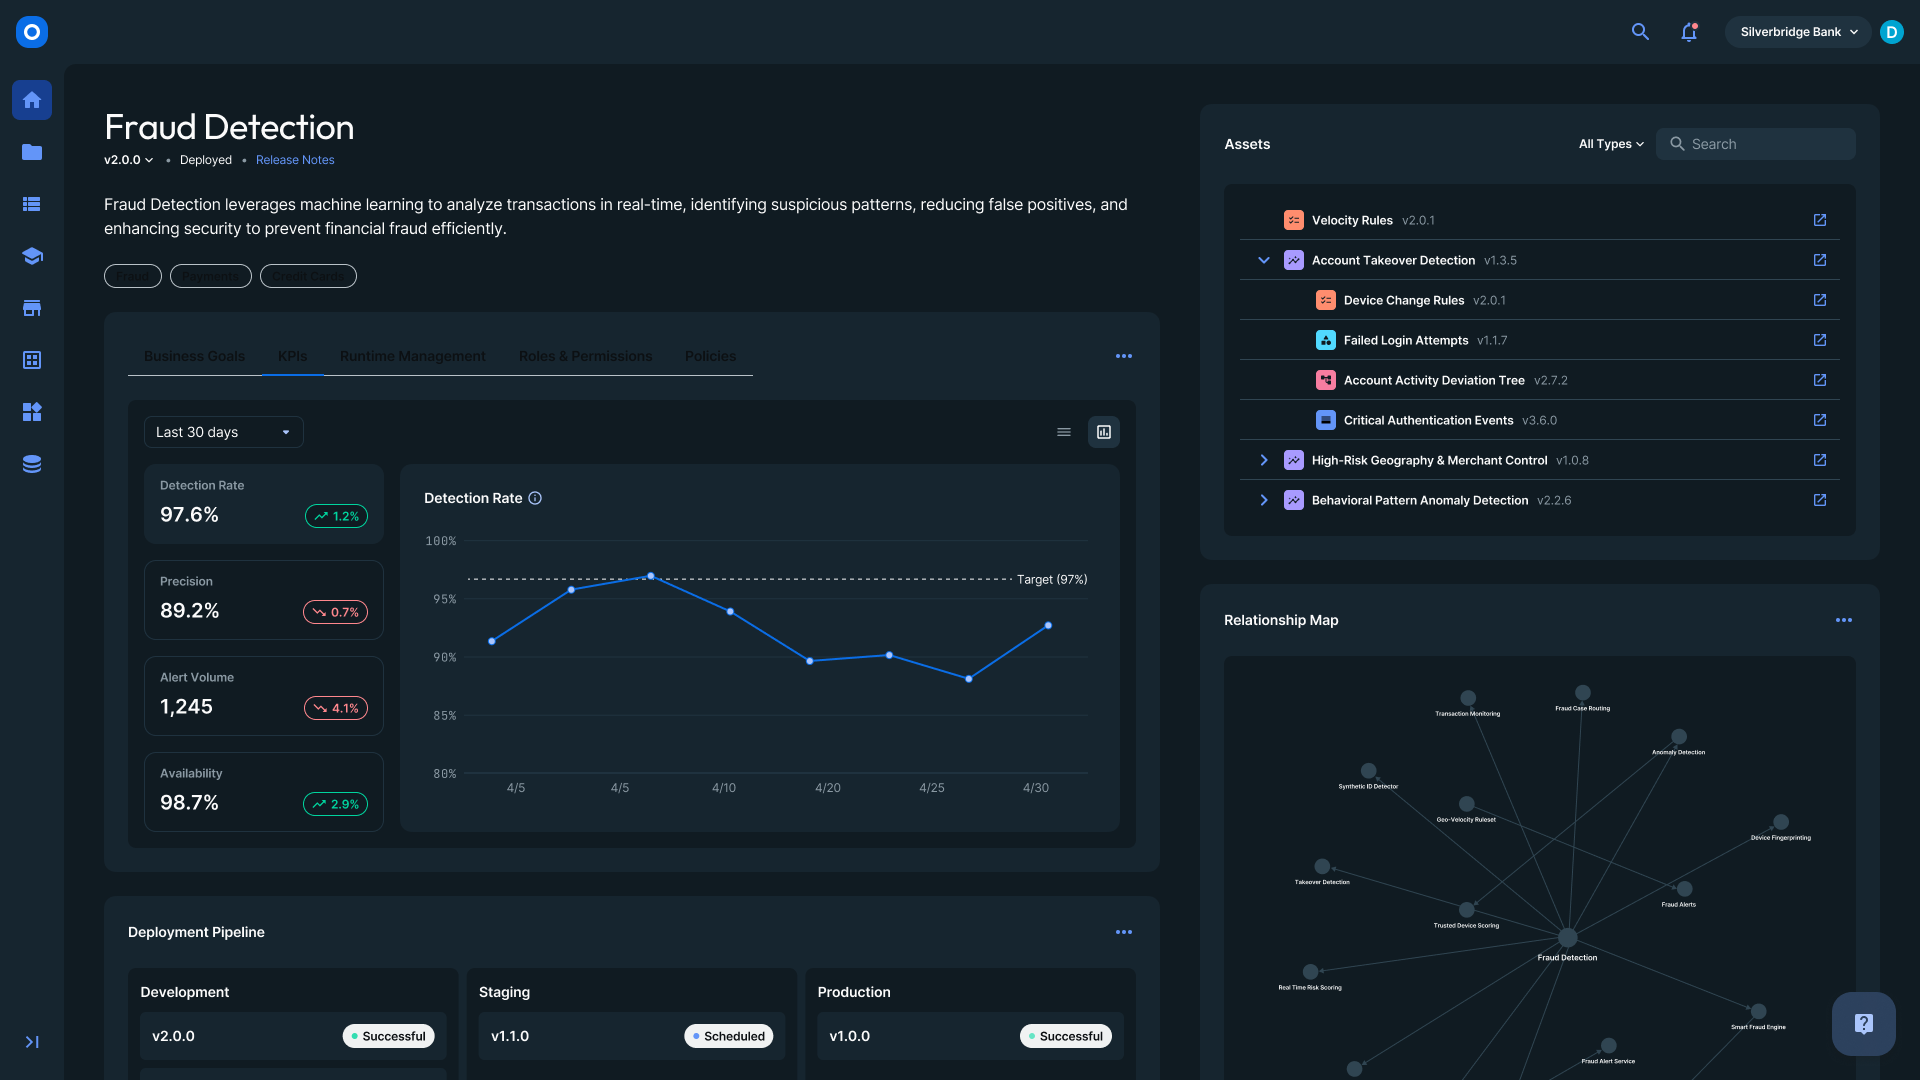
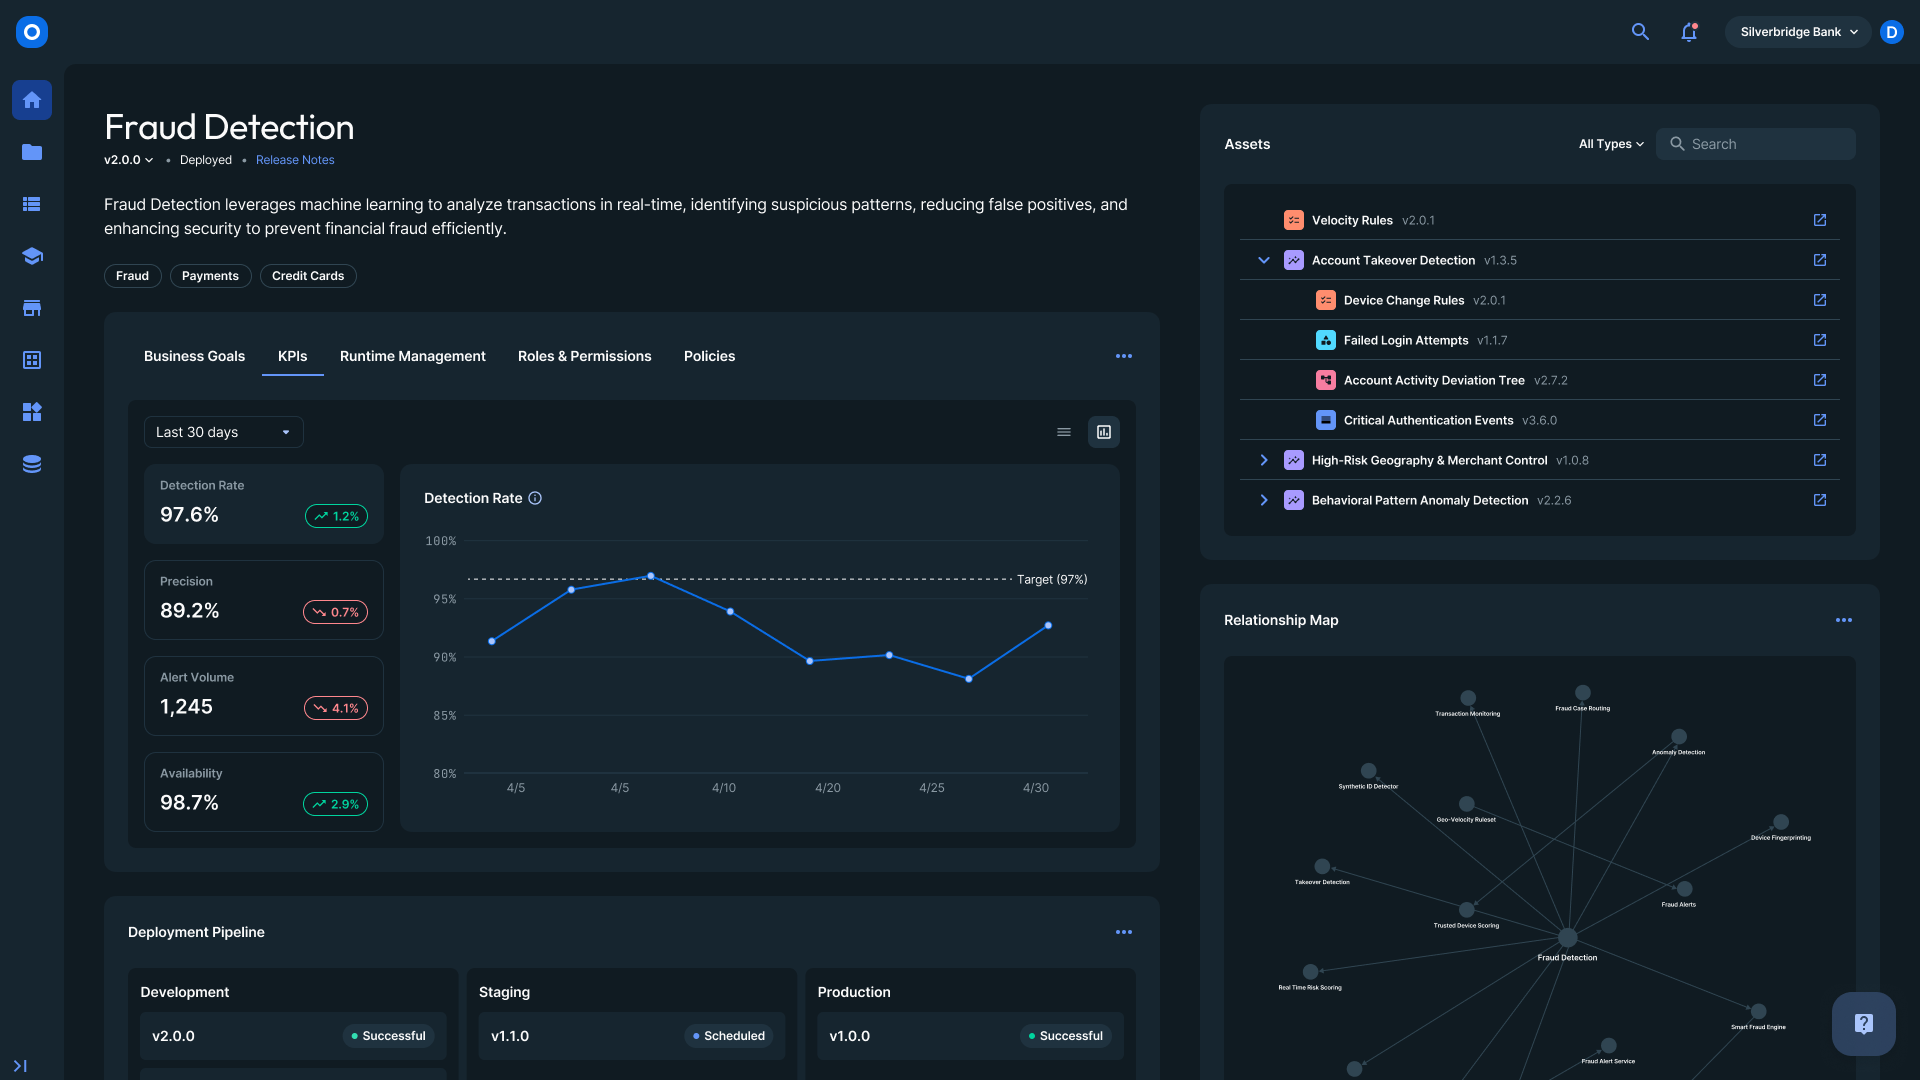
Updated all the project images

diff --git a/script.js b/script.js
@@ -429,10 +429,18 @@ const workData = {
         tldr: 'Designed a centralized schema management system for the FICO platform as well as a self-serve Micro Front-End (MFE) component. I later expanded this work independently into an advanced concept exploring ERD canvas models and AI integrations.',
         link: 'https://www.levonayim.com/project/3f8j2k',
         images: [
-          { src: 'assets/case-study-placeholder.png', caption: 'Placeholder image 1 — replace with a real screenshot.' },
-          { src: 'assets/case-study-placeholder.png', caption: 'Placeholder image 2 — replace with a real screenshot.' },
-          { src: 'assets/case-study-placeholder.png', caption: 'Placeholder image 3 — replace with a real screenshot.' },
+          { type: 'figma',
+          src: 'assets/fico/btc/btc-fico.png',   // a PNG you export from Figma yourself
+          figmaUrl: 'https://www.figma.com/design/xnzxJzrzLVmRC6ZRUU4OMc/Shared---Levona-BTC?node-id=0-1&t=XPd36sKQJH8RXB3R-1',
+          caption: `BTC/Data Schemas`},
+          { src: 'assets/fico/btc/FICOWorldFinalPresented.png', caption: 'UI presented to clients at FICO World 2025 - ERD + Combining BTC with Aggregations together' },
+          { src: 'assets/fico/btc/BTCLight.png', caption: 'Final - BTC UI - Table in light mode' },
+          { src: 'assets/fico/btc/BTCDark.png', caption: 'Final - BTC UI - Table in dark mode' },
+          { src: 'assets/fico/btc/Light-AddBT.png', caption: 'Final - Adding a new Business Term Set in light mode' },
+          { src: 'assets/fico/btc/Dark-AddBT.png', caption: 'Final - Adding a new Business Term Set in dark mode' },
+          { src: 'assets/fico/btc/FinalBTCDarkMode.png', caption: 'Bulk actions on the table for BTC but also reused across other capabilities that have tables.' },
         ],
+        figmalink: [`https://www.figma.com/design/hhpdUygbGyTenp23CNxK1g/Shared---Levona-s-take-on-BTC-2026?node-id=2-2925&t=oPNBllSaURj90ChR-1`],
         body: [
           'As Lead Product Designer, I designed a centralized schema management system for the FICO platform to eliminate conflicting data definitions and fragile upstream dependencies. Collaborating with PMs, architects, and engineers, I led the end-to-end design of a plug-and-play Micro Front-End (MFE) component that transformed weeks of cross-team coordination into an instant, self-serve setup for both technical and non-technical users.',
           'After my departure from FICO, I independently expanded the project into an advanced design concept exploring ERD canvas models, smart search suggestions, and AI integrations.',
@@ -447,9 +455,13 @@ const workData = {
         tldr: `I independently designed FICO's first end-to-end visual platform map and a simplified "House Analogy" framework to translate complex technical architectures into a shared vocabulary. This self-initiated project broke down organizational silos, streamlined cross-functional onboarding, and was used to preview the new platform to clients.`,
         link: 'https://www.levonayim.com/project/fico-platform',
         images: [
-          { src: 'assets/case-study-placeholder.png', caption: 'Placeholder image 1 — replace with a real screenshot.' },
-          { src: 'assets/case-study-placeholder.png', caption: 'Placeholder image 2 — replace with a real screenshot.' },
-          { src: 'assets/case-study-placeholder.png', caption: 'Placeholder image 3 — replace with a real screenshot.' },
+          { type: 'video', videoId: '8j4Z873We-o&t=4140s', caption: 'FICO Platform demo walkthrough - FICO World 2026' },
+          { type: 'figma',
+          src: 'assets/fico/platform/figma-thumbnail.png',   // a PNG you export from Figma yourself
+          figmaUrl: 'https://www.figma.com/design/WsEGtkhZA8JJs7UDiBQAHm/Shared---Levona-FICO-Platform?node-id=4-6&t=cZqmnR4I7kw8BHzm-1',
+          caption: `Overall FICO Platform early stages`},
+          { src: 'assets/fico/platform/SketchyFlow.png', caption: `I took the initial stab on creating a very lofi sketch and flow of the overall platform` },
+          { src: 'assets/fico/platform/highlevel-slide.png', caption: 'high level view of the platform in relation to building a house' },
         ],
         body: [
           'Recognizing a critical organizational gap during FICO’s platform transformation, I took initiative to design the first end-to-end visual blueprint and alignment framework to break down internal silos. I translated dense technical documentation into a cohesive visual map of the user journey (Day 0 to Day 2) and created the "House" analogy framework to translate abstract architectures into a shared, layman-friendly vocabulary.',
@@ -465,9 +477,17 @@ const workData = {
         tldr: `Designed FICO's Feature Management platform, translating complex real-time data coding into an intuitive, step-by-step UI. This plug-and-play architecture empowered non-technical analysts to build advanced risk and fraud configurations instantly, eliminating weeks of cross-team engineering coordination.`,
         link: 'https://www.levonayim.com/project/kj98hv',
         images: [
-          { src: 'assets/case-study-placeholder.png', caption: 'Placeholder image 1 — replace with a real screenshot.' },
-          { src: 'assets/case-study-placeholder.png', caption: 'Placeholder image 2 — replace with a real screenshot.' },
-          { type: 'video', videoId: '8j4Z873We-o', caption: 'Product demo walkthrough' },
+          { type: 'video', videoId: '8j4Z873We-o&t=4140s', caption: 'FICO Platform demo walkthrough - FICO World 2026' },
+          { type: 'figma',
+          src: 'assets/fico/fm-agg/figma-agg.png',   // a PNG you export from Figma yourself
+          figmaUrl: 'https://www.figma.com/design/UZgDp90Pij0oTZvBH9cmGT/Shared---Levona-Aggregation?node-id=0-1&t=ghf2CgxJKjDhxzeK-1',
+          caption: `Feature Management - Aggregations`},
+          { src: 'assets/fico/fm-agg/Aggregations.png', caption: 'List of Aggregations - light mode' },
+          { src: 'assets/fico/fm-agg/Aggregationsdark.png', caption: 'List of Aggregations - dark mode' },
+          { src: 'assets/fico/fm-agg/Windowtype.png', caption: 'List of Aggregations - light mode' },
+          { src: 'assets/fico/fm-agg/AddAggregationlight.png', caption: 'List of Aggregations - light mode' },
+          { src: 'assets/fico/fm-agg/AddAggregationdark.png', caption: 'List of Aggregations - dark mode' },
+          { src: 'assets/fico/fm-agg/Agg-bulkactions.png', caption: 'Aggregations - Bulk actions. Reused in other capabilities as well.' },
         ],
         body: [
           `As Lead Product Designer, I designed the end-to-end experience for FICO's Feature Management platform to streamline how financial institutions track real-time customer data for risk and fraud prevention. Partnering with product management and engineering, I translated complex coding processes into an intuitive, linear form-based interface that guides analysts through configuring advanced parameters independently.`,
@@ -484,16 +504,19 @@ const workData = {
         tldr: 'Turned future-facing product concepts into working prototypes for a live keynote stage demo.',
         link: 'https://www.levonayim.com/project/sfkfma',
         images: [
+          { type: 'figma',
+          src: 'assets/fico/day01/day01finalscreenszoomedin.png',   // a PNG you export from Figma yourself
+          figmaUrl: 'https://www.figma.com/design/yyxSXRYLLIdxAa17IUhV0a/Shared---Levona-Day-01?node-id=0-1&t=cFW71F4ofXYnad3o-1',
+          caption: `Day 01 / Onboarding flow`},
           { src: 'assets/fico/day01/DAY01MyAttempt.png', caption: 'Sketch of Day0/1 initial flow' },
           { src: 'assets/fico/day01/JTBD.png', caption: 'JTBD + Flow based on persona' },
-          { src: 'assets/fico/day01/day01finalscreenszoomedin.png', caption: 'Final Day 01 admin screens' },
           { src: 'assets/fico/day01/Admin.png', caption: 'Homepage - Admin' },
           { src: 'assets/fico/day01/SolutionCreator.png', caption: 'Homepage - Solution Creator' },
           { src: 'assets/fico/day01/ServiceCreator2.png', caption: 'Homepage - Service Creator' },
           { src: 'assets/fico/day01/BA2.png', caption: 'Homepage - Business Analyst' },
         ],
         body: [
-          `As Lead Product Designer, I designed the "Experience Gateway"—the unified entry point for the FICO Platform that streamlines the first touchpoint for enterprise clients and technical users. By eliminating complex handoffs and manual setups, this strategic onboarding portal enables users to autonomously map out workspaces and provision services in minutes rather than weeks, serving as a critical pillar in FICO's modern platform transformation.`,
+          'Built high-fidelity interactive prototypes used in the main keynote stage presentation, translating future-facing product concepts into something audiences could see working.',
         ],
       },
     ],
@@ -675,10 +698,15 @@ function showCaseStudy(key, index) {
 
   const bodyHtml = project.body.map((paragraph) => `<p>${paragraph}</p>`).join('');
 
-    // NEW: build the link markup only if a link exists for this project
+  // NEW: build the link markup only if a link exists for this project
   const linkHtml = project.link
     ? `<p class="case-study-link">
          <a href="${project.link}" target="_blank" rel="noopener noreferrer">→ Full case study here if you’re interested.</a>
+       </p>`
+    : '';
+    const figmaLink = project.figmalink
+    ? `<p class="figma-link">
+         <a href="${project.figmalink}" target="_blank" rel="noopener noreferrer">→ Post-FICO take</a>
        </p>`
     : '';
   const images = project.images || [];
@@ -689,6 +717,14 @@ function showCaseStudy(key, index) {
         return `<div class="gallery-video-thumb" onclick="openImageModal('${key}', ${index}, ${i})">
                   <img src="${thumb}" alt="${project.name} video ${i + 1}">
                   <span class="play-icon">▶</span>
+                </div>`;
+      }
+      if (image.type === 'figma') {
+        // Opens the live Figma file in a new tab instead of the in-page lightbox —
+        // Figma files can't be rendered inside our modal, only linked out to.
+        return `<div class="gallery-video-thumb gallery-figma-thumb" onclick="window.open('${image.figmaUrl}', '_blank', 'noopener')">
+                  <img src="${image.src}" alt="${project.name} figma thumbnail ${i + 1}">
+                  <span class="play-icon figma-icon" aria-hidden="true">${FIGMA_ICON_SVG}</span>
                 </div>`;
       }
       return `<img src="${image.src}" alt="${project.name} screenshot ${i + 1}" onclick="openImageModal('${key}', ${index}, ${i})">`;
@@ -712,6 +748,7 @@ function showCaseStudy(key, index) {
     ${galleryBlock}
     <p class="overview-label">Overview</p>
     <div class="case-study-body">${bodyHtml}</div>
+    ${figmaLink}
     ${linkHtml}
   `;
 
@@ -734,6 +771,15 @@ function scrollGallery(button, direction) {
 let modalImages = [];
 let modalIndex = 0;
 
+// Small monochrome Figma logo, used as the overlay icon on figma-type thumbnails
+const FIGMA_ICON_SVG = `<svg width="20" height="20" viewBox="0 0 38 57" xmlns="http://www.w3.org/2000/svg">
+  <path fill="currentColor" d="M19 28.5a9.5 9.5 0 1 1 19 0 9.5 9.5 0 0 1-19 0Z"/>
+  <path fill="currentColor" d="M0 47.5A9.5 9.5 0 0 1 9.5 38H19v9.5a9.5 9.5 0 1 1-19 0Z"/>
+  <path fill="currentColor" d="M19 0v19h9.5a9.5 9.5 0 1 0 0-19H19Z"/>
+  <path fill="currentColor" d="M0 9.5A9.5 9.5 0 0 0 9.5 19H19V0H9.5A9.5 9.5 0 0 0 0 9.5Z"/>
+  <path fill="currentColor" d="M0 28.5A9.5 9.5 0 0 0 9.5 38H19V19H9.5A9.5 9.5 0 0 0 0 28.5Z"/>
+</svg>`;
+
 function renderModalImage() {
   const img = document.getElementById('imageModalImg');
   const videoFrame = document.getElementById('imageModalVideo');
@@ -750,7 +796,7 @@ function renderModalImage() {
   if (current.type === 'video') {
     img.style.display = 'none';
     videoFrame.style.display = '';
-    videoFrame.src = `https://www.youtube.com/embed/${current.videoId}?start=4140`;
+    videoFrame.src = `https://www.youtube.com/embed/${current.videoId}`;
     if (zoomControls) zoomControls.style.display = 'none';
   } else {
     videoFrame.style.display = 'none';
@@ -778,7 +824,15 @@ function openImageModal(key, projectIndex, imageIndex) {
   const project = workData[key] && workData[key].projects[projectIndex];
   if (!project || !project.images) return;
 
-  modalImages = project.images.map((image, i) => {
+  // Figma thumbnails open in a new tab (see the gallery click handler) and
+  // never call this function directly, but they still need to be filtered
+  // out here so they don't end up as "empty" stops when navigating with
+  // prev/next through a gallery that mixes types.
+  const navigable = project.images
+    .map((image, i) => ({ image, i }))
+    .filter(({ image }) => image.type !== 'figma');
+
+  modalImages = navigable.map(({ image, i }) => {
     if (image.type === 'video') {
       return { type: 'video', videoId: image.videoId, caption: image.caption || '' };
     }
@@ -789,7 +843,10 @@ function openImageModal(key, projectIndex, imageIndex) {
       caption: image.caption || '',
     };
   });
-  modalIndex = imageIndex;
+
+  // imageIndex is the position within the original (unfiltered) images array,
+  // so translate it to its position within the filtered navigable list.
+  modalIndex = Math.max(0, navigable.findIndex(({ i }) => i === imageIndex));
 
   const modal = document.getElementById('imageModal');
   if (!modal) return;

diff --git a/style.css b/style.css
@@ -797,6 +797,21 @@ body {
   text-decoration: underline;
 }
 
+.figma-link, .case-study-link {
+  margin: 0 !important;
+}
+
+.figma-link a {
+  color: var(--link-color);
+  text-decoration: none;
+  font-size: 0.85rem;
+}
+
+.figma-link a:hover {
+  text-decoration: underline;
+}
+
+
 .work-split.split-active .work-list {
   position: sticky;
   top: 0;
@@ -826,6 +841,17 @@ body {
   color: #fff;
   font-size: 1.4rem;
   text-shadow: 0 0 6px rgba(0,0,0,0.7);
+}
+
+.gallery-figma-thumb .figma-icon {
+  display: flex;
+  align-items: center;
+  justify-content: center;
+  width: 32px;
+  height: 32px;
+  border-radius: 50%;
+  background: rgba(0, 0, 0, 0.55);
+  filter: drop-shadow(0 0 4px rgba(0,0,0,0.6));
 }
 
 @media (max-width: 480px) {